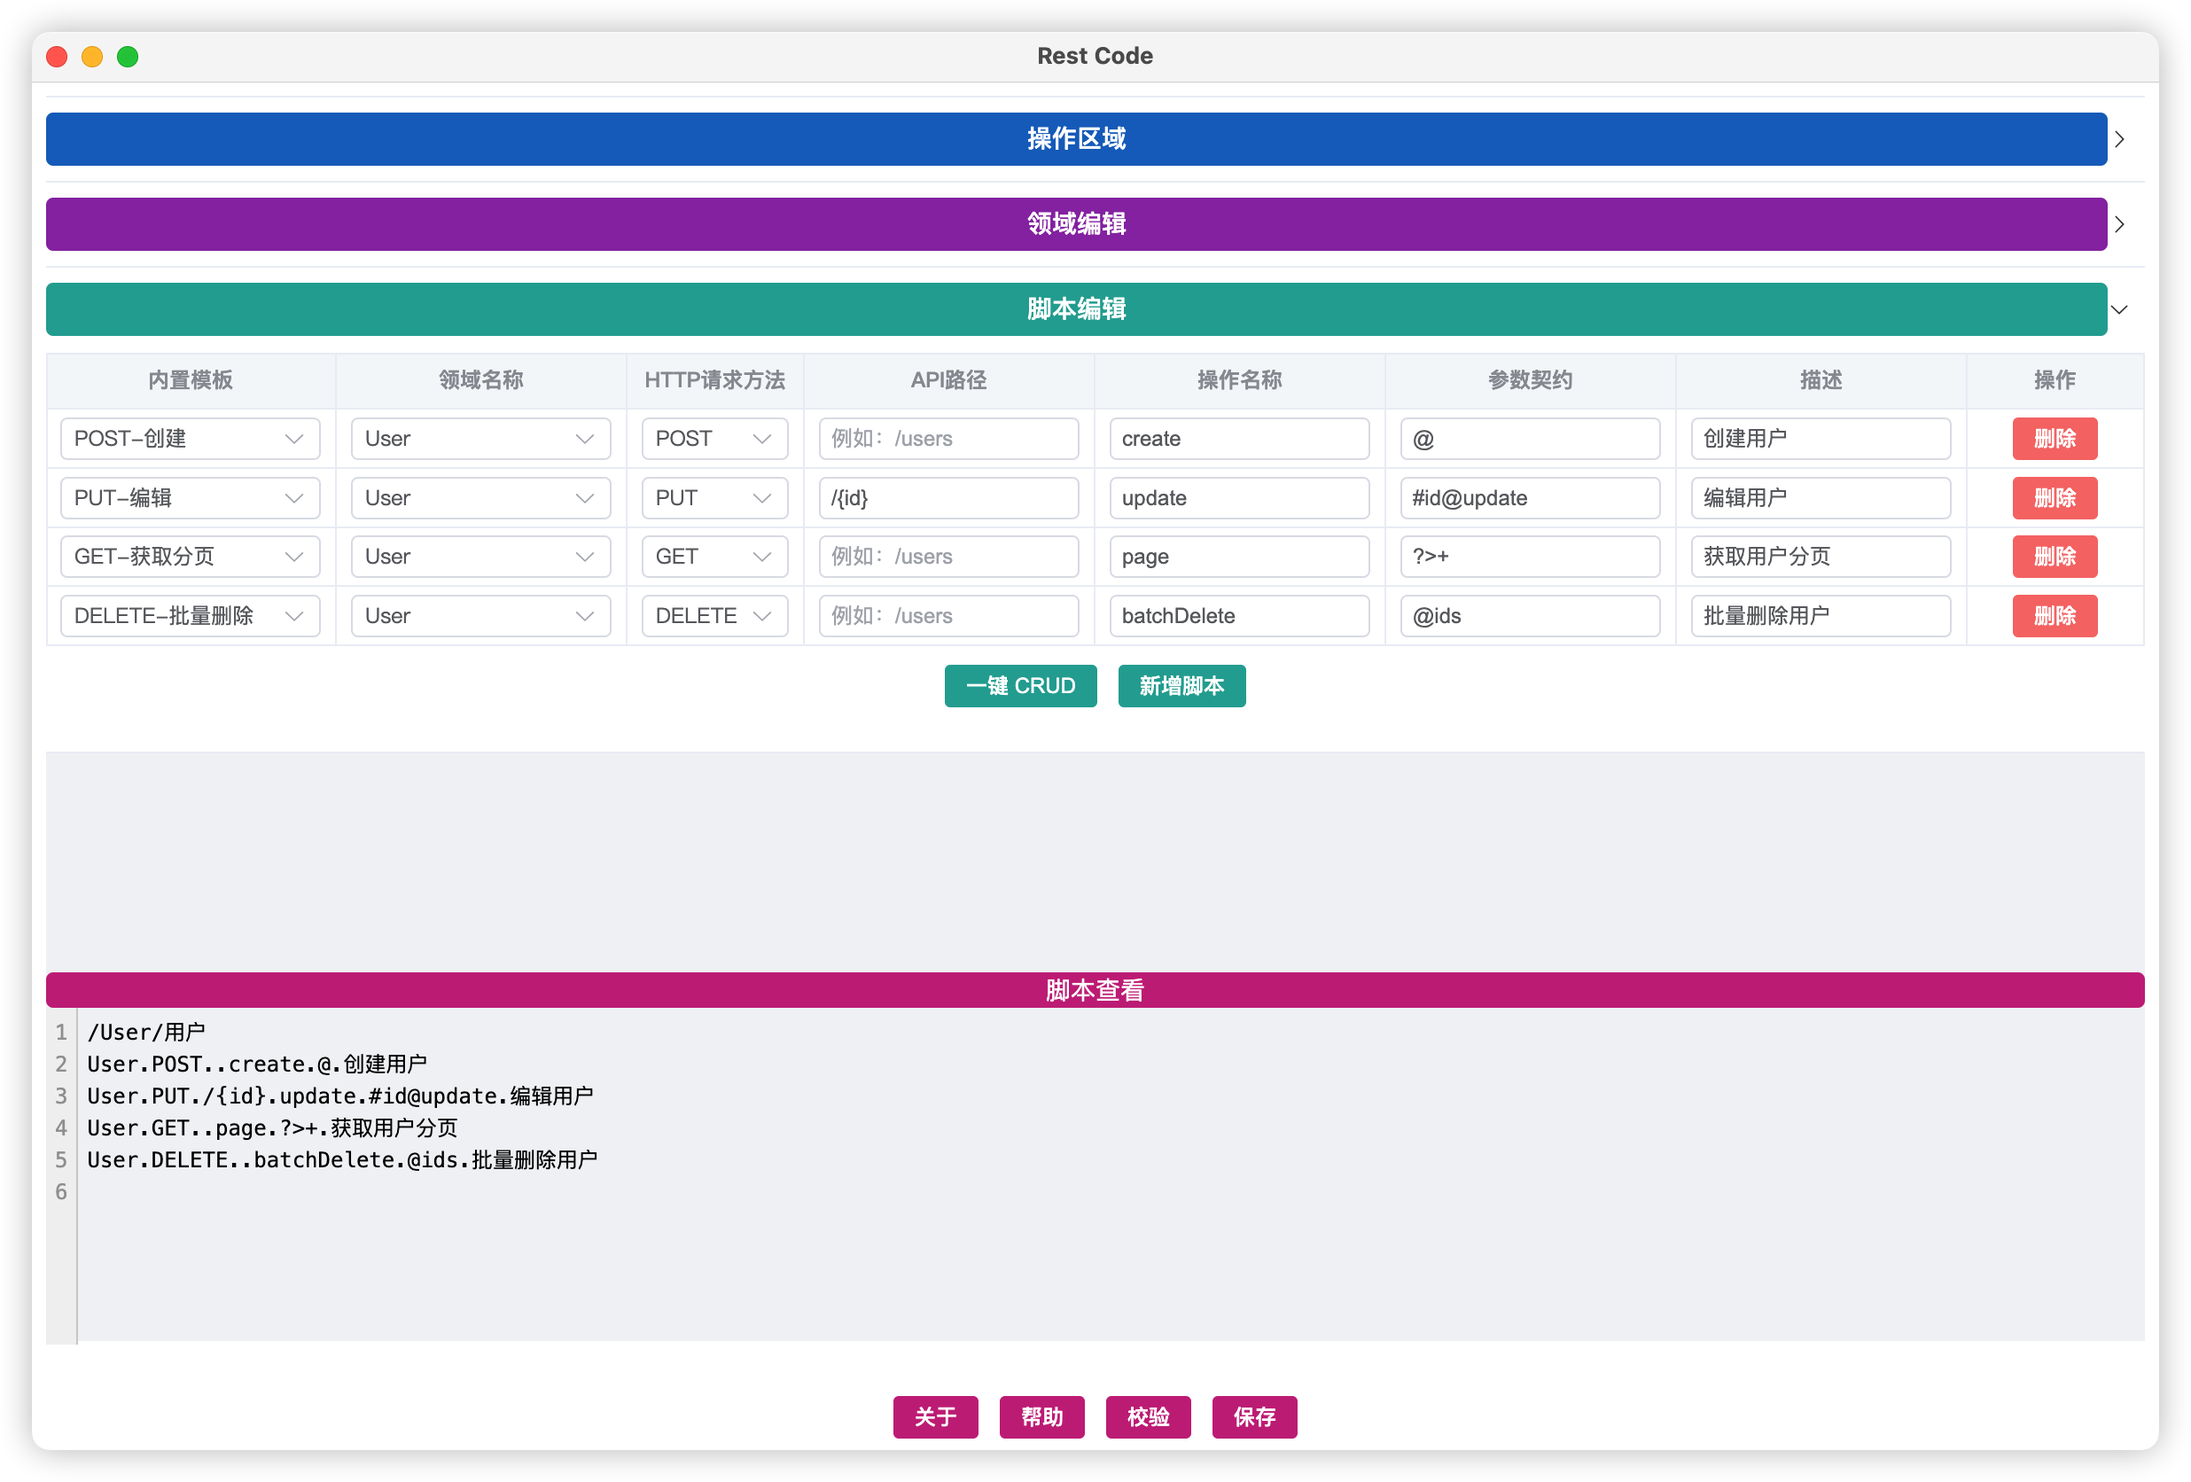
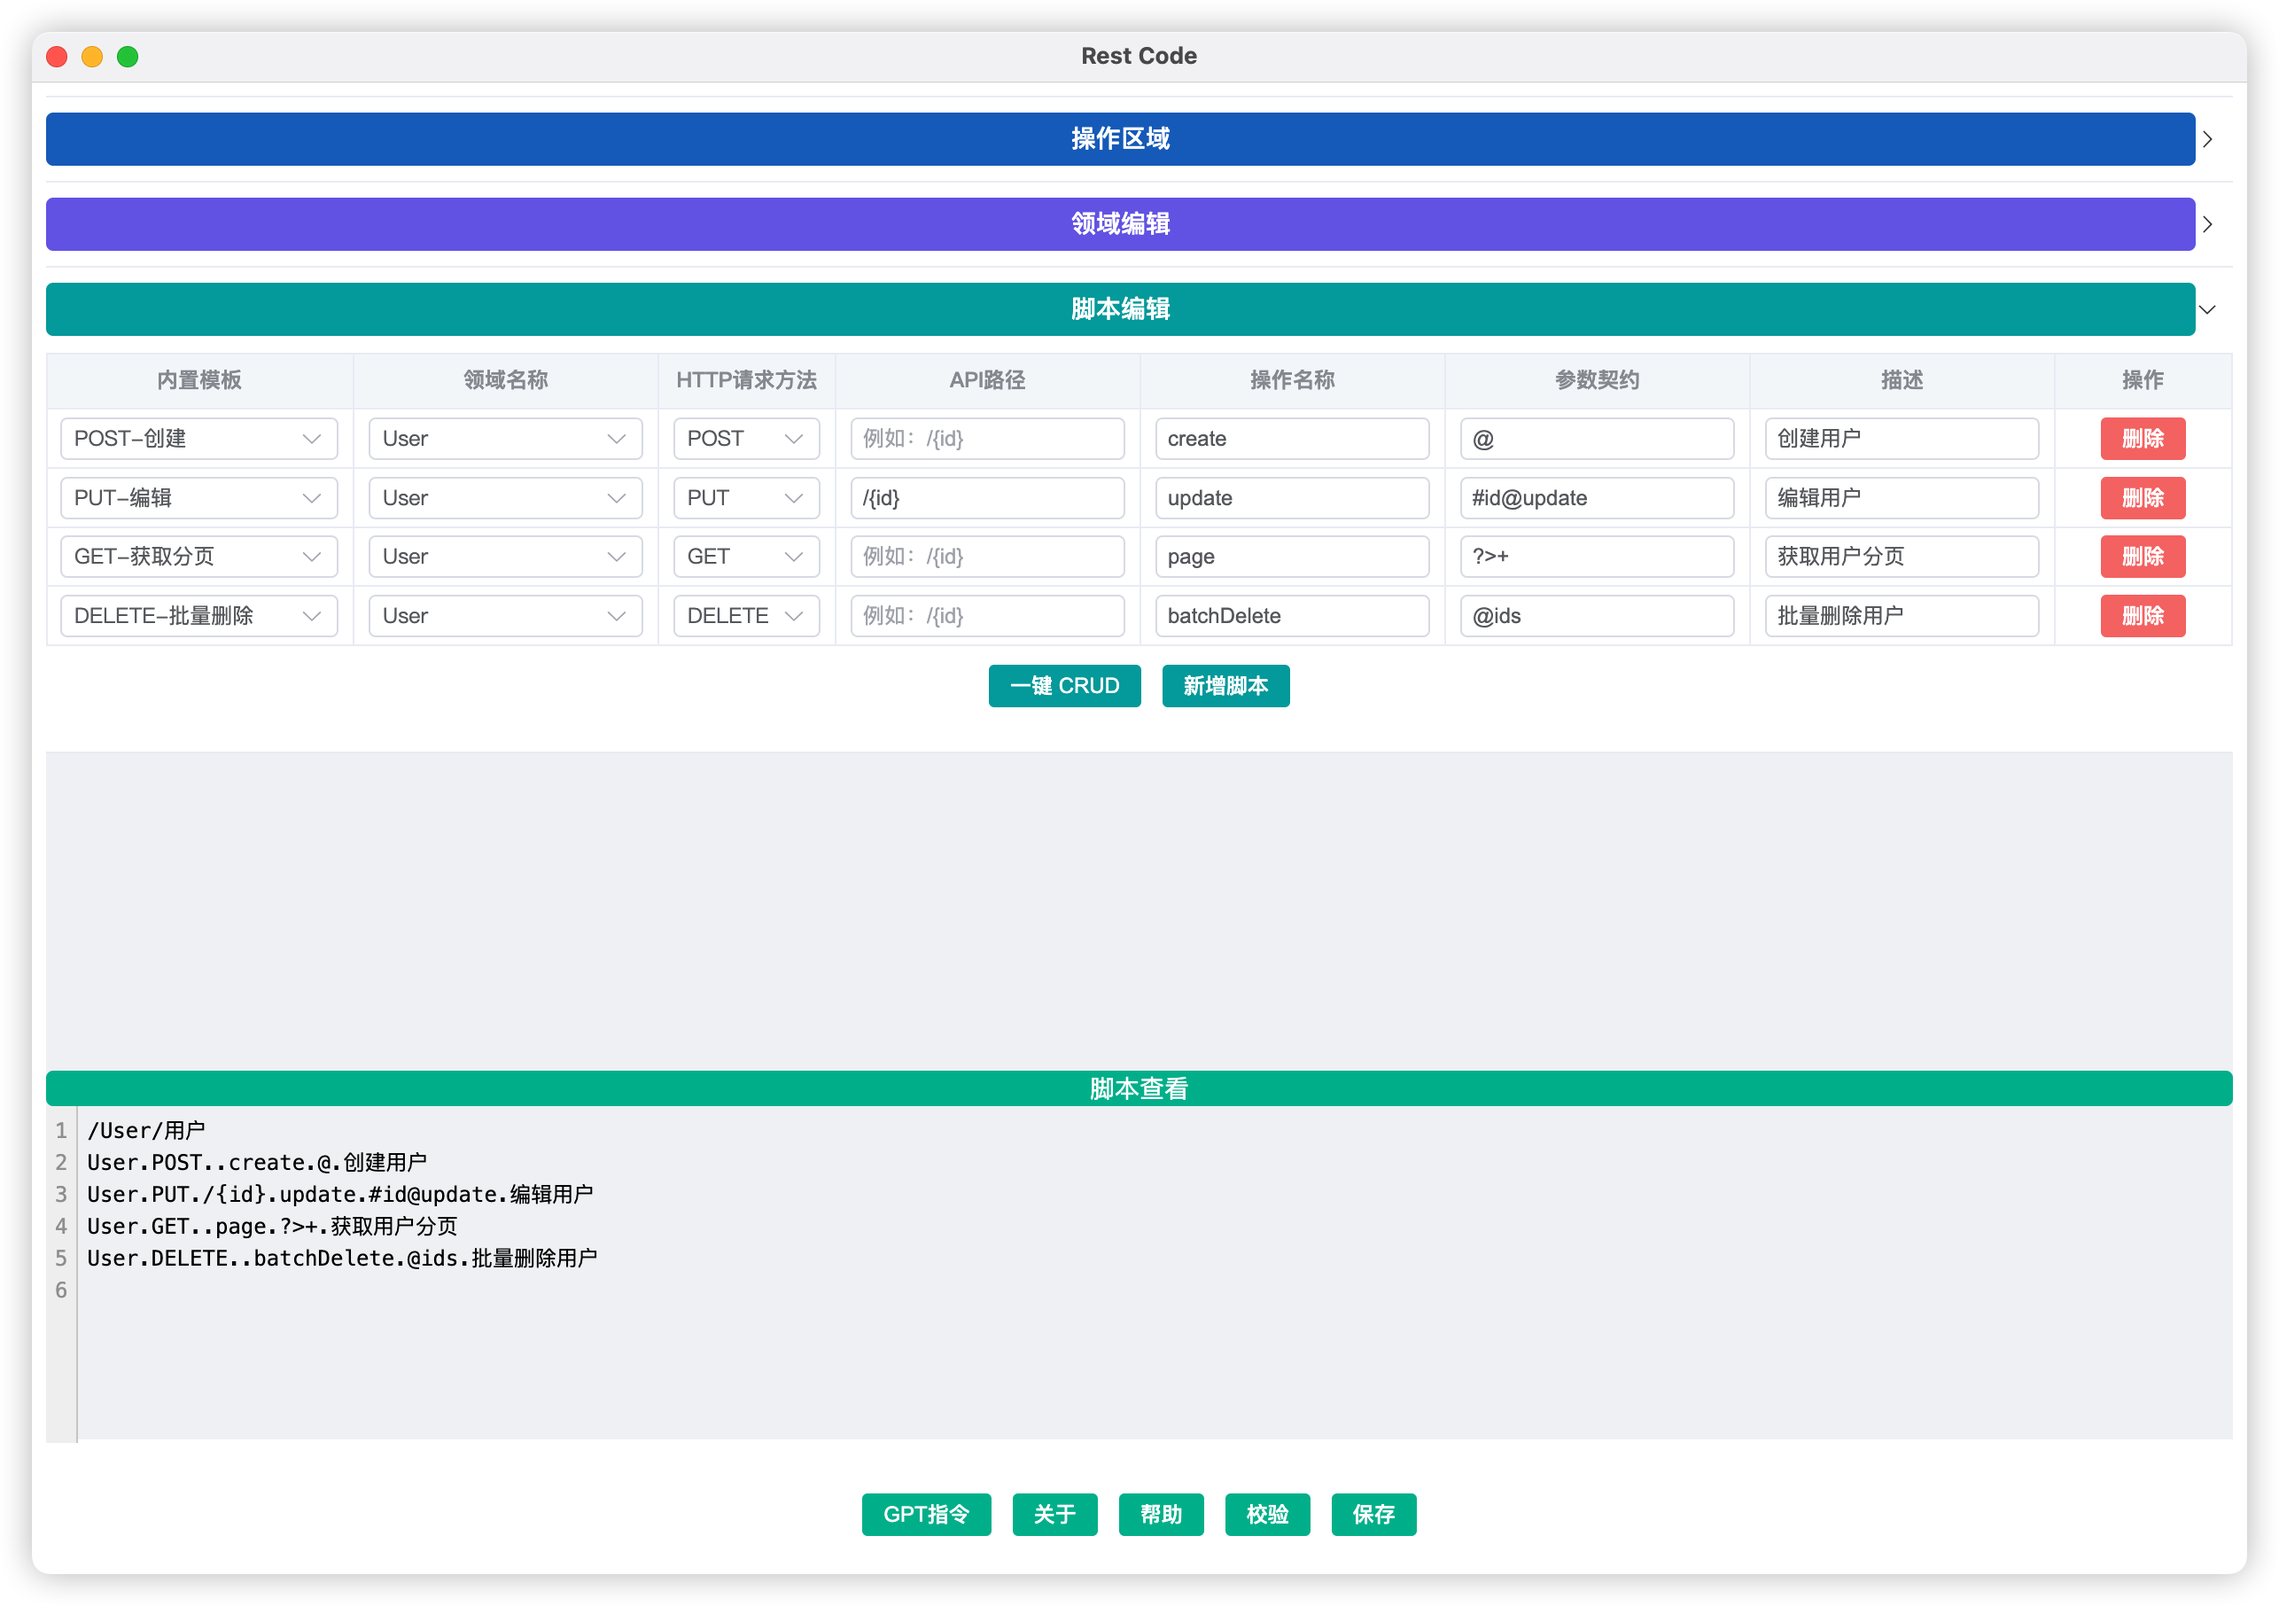
style: 修改多个组件中的按钮和警告框颜色，统一为 #01a3a4，以提升界面一致性

Changed region(s): [[0.0, 0.0311, 0.9656, 0.4976], [0.0, 0.6531, 0.9968, 0.8086], [0.3738, 0.9019, 0.623, 0.9952]]

diff --git a/src/components/ScriptViewer.vue b/src/components/ScriptViewer.vue
@@ -3,7 +3,7 @@
   <el-popover v-model="showErrorPopover" placement="top" width="600" :visible="showErrorPopover">
     <div v-html="formattedErrors" style="height: 300px;overflow: auto;" @click.stop></div>
     <template #reference>
-      <el-alert ref="errorButton" center title="脚本查看" style="background-color:#01a3a4; height: 20px;" type="success"
+      <el-alert ref="errorButton" center title="脚本查看" style="background-color:#00b894; height: 20px;" type="success"
         effect="dark" :closable=false @click.stop />
     </template>
   </el-popover>
@@ -19,16 +19,16 @@
   </div>
   <div style="text-align: center; margin-top: 10px;">
     <el-button type="primary" @click.stop="showGptDialog = true"
-      style="background-color: #01a3a4;border-color: #01a3a4;"
+      style="background-color: #00b894;border-color: #00b894;"
       :title="'此指令用于调教 GPT 成为 一个 RCS 脚本生成专家，将 Markdown 表格的中文伪代码解析为 RCS 文件。'">GPT指令</el-button>
     <el-button type="primary" @click.stop="showAboutDialog = true"
-      style="background-color: #01a3a4;border-color: #01a3a4;">关于</el-button>
+      style="background-color: #00b894;border-color: #00b894;">关于</el-button>
     <el-button type="primary" @click.stop="showHelpDialog = true"
-      style="background-color: #01a3a4;border-color: #01a3a4;">帮助</el-button>
+      style="background-color: #00b894;border-color: #00b894;">帮助</el-button>
     <el-button type="primary" @click.stop="validateScripts"
-      style="background-color: #01a3a4;border-color: #01a3a4;">校验</el-button>
+      style="background-color: #00b894;border-color: #00b894;">校验</el-button>
     <el-button type="primary" @click.stop="saveScripts"
-      style="background-color: #01a3a4;border-color: #01a3a4;">保存</el-button>
+      style="background-color: #00b894;border-color: #00b894;">保存</el-button>
   </div>
 
   <el-dialog title="GPT 指令" v-model="showGptDialog" width="80%">

diff --git a/src/components/ScriptEditor.vue b/src/components/ScriptEditor.vue
@@ -62,8 +62,8 @@
     </el-table>
 
     <div style="text-align: center; margin-top: 10px;">
-        <el-button color="#00b894" type="primary" @click="oneClickCRUD">一键 CRUD</el-button>
-        <el-button color="#00b894" type="primary" @click="addScript">新增脚本</el-button>
+        <el-button color="#01a3a4" type="primary" @click="oneClickCRUD">一键 CRUD</el-button>
+        <el-button color="#01a3a4" type="primary" @click="addScript">新增脚本</el-button>
     </div>
     <el-dialog title="一键 CRUD" v-model="showCrudDialog">
         <el-form>

diff --git a/src/App.vue b/src/App.vue
@@ -36,7 +36,7 @@
 
         <!-- 第3行：脚本编辑区域 -->
         <el-collapse-item name="3">
-          <template #title><el-alert center title="脚本编辑" style="background-color:#00b894;height: 30px;" type="success"
+          <template #title><el-alert center title="脚本编辑" style="background-color:#01a3a4;height: 30px;" type="success"
               effect="dark" :closable=false /></template>
           <script-editor />
         </el-collapse-item>
